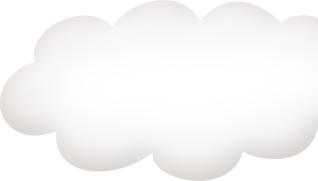
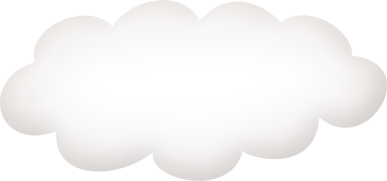
parallax infinito nubes

diff --git a/TP4/index.html b/TP4/index.html
@@ -135,7 +135,7 @@
                             <p>Busca entre los escenarios y ayuda a UNO a encontrar el número perdido para completar la secuencia. ¡Cada número oculto revela una sorpresa especial! Observa bien y explora cada rincón para descubrir dónde se esconde.</p>
                         </div>
                     </div>
-                    <div class="row" data-image="img/4.png">
+                    <div class="row" data-image="img/4 58.png">
                         <div class="paragraph">
                             <h2>Desafío de Comparación</h2>
                             <p>En este reto, debes ayudar a UNO a identificar qué NumberBlock es mayor o menor. Aprende sobre la comparación de números mientras los personajes se colocan en orden de tamaño, ¡y desbloquea recompensas cada vez que aciertes!</p>
@@ -191,7 +191,7 @@
                     allow="accelerometer; autoplay; clipboard-write; encrypted-media; gyroscope; picture-in-picture"
                     allowfullscreen>
                 </iframe>
-                <img src="img/3_video.png" alt="" class="parallax-capa" data-speed="20">
+                <img src="img/3_video.png" alt="" class="parallax-capa" data-speed="30">
             </div>
         </section>
 
@@ -249,7 +249,15 @@
 
 
         <section class="parallax-infinito">
+            
             <div class="form_container">
+                <div class="parallax-contain">
+                    <div class="layer layer-3"></div>
+                    <div class="layer layer-2"></div>
+                    <div class="layer layer-1"></div>
+                </div>
+            
+            
                 <h2>¿Quieres ser el primero en enterarse de todas las novedades?</h2>
                 <input type="text" placeholder="Ingresa aquí tu correo">
                 <button class="green-button button-form">SUSCRIBIRSE</button>
@@ -269,6 +277,7 @@
 
 
         <footer class="container-footer">
+           
             <div class="footer-juego">
                 <img src="img/footer_juego.png" alt="plataformas de juegos">
             </div>

diff --git a/TP4/css/style.css b/TP4/css/style.css
@@ -723,19 +723,19 @@ nav {
 
 .video p {
     position: absolute;
-    top: 469px;
+    top: 780px;
     width: 802px;
     color: #FFF;
     font-family: Lato;
     font-size: 60px;
     font-style: normal;
     font-weight: 600;
-    line-height: 94.5%; /* 56.7px */
+    line-height: 94.5%; 
 }
 
 .reproductor_video {
     position: absolute;
-    top: 680px;
+    top: 1000px;
     width: 746px;
     height: 394px;
     background-color: #00d1d5;
@@ -745,7 +745,7 @@ nav {
 
 .video img {
     position: absolute;
-    top: 700px;
+    top: 1800px;
     left: 731px;
     width: 549px;
     height: 989px;
@@ -1044,3 +1044,50 @@ nav {
     margin-bottom: 48px;
 }
 
+.layer {
+    position: absolute;
+    background-repeat: no-repeat; /* Sin repetición */
+    background-size: contain; /* Ajusta el tamaño de las nubes */
+}
+
+/* Animaciones para cada capa */
+.layer-3 {
+    background-image: url("../img/nube_izquierda.png");
+    width: 387px;
+    height: 181px;
+    top: 545px;
+    animation: scroll 10s infinite linear;
+}
+
+.layer-2 {
+    background-image: url("../img/nube_chica_medio.png");
+    animation: scroll 15s infinite linear;
+    width: 265px;
+    height: 124px;
+    top: 243px;  
+}
+
+.layer-1 {
+    background-image: url("../img/nube_derecha.png");
+    animation: scroll 20s infinite linear;
+    width: 387px;
+    height: 181px;
+    top: 286px; 
+}
+
+.parallax-contain {
+    position: relative;
+    width: 1280px;
+    height: 1000px; /* Ajusta según el alto del footer */
+    margin-left: -100px;
+    overflow: hidden; 
+}
+/* Animación de desplazamiento */
+@keyframes scroll {
+    0% {
+        transform: translateX(1300px); /* Empieza fuera del rango del contenedor */
+    }
+    100% {
+        transform: translateX(-400px); /* Termina fuera del rango del contenedor */
+    }
+}

diff --git a/TP4/js/menu.js b/TP4/js/menu.js
@@ -10,7 +10,7 @@ menuHamburguesa.addEventListener('click', () => {
 
     if (menu.classList.contains('activo')) {
         menuItems.forEach((item, index) => {
-            item.style.animation = `aparecer 0.5s forwards ${index + 0.1} s`;
+            item.style.animation = `aparecer 0.5s forwards ${index + 0.1}s`;
             header.style.backgroundColor = "#00d1d5";
         });
     } else {
